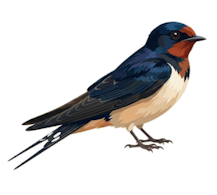
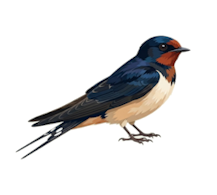
Rename 'Arten heute:' to 'Arten:' in index.html

Changed region(s): [[0.0276, 0.0923, 0.9677, 0.8923], [0.5806, 0.4615, 0.6083, 0.4923]]

diff --git a/templates/index.html b/templates/index.html
@@ -123,7 +123,7 @@
                     </div>
                     
                     <div id="radar-nodes" style="width: 100%; height: 100%; position: absolute; left: 0; top: 0;"></div>
-                    <div id="radar-unique-species" style="position: absolute; bottom: 10px; left: 10px; color: #4CAF50; font-family: 'Inter', sans-serif; font-size: 14px; background: rgba(20, 20, 20, 0.8); padding: 5px 12px; border-radius: 6px; border: 1px solid #1b5e20; z-index: 20; box-shadow: 0 2px 10px rgba(0,0,0,0.5); backdrop-filter: blur(4px);">Arten heute: 0</div>
+                    <div id="radar-unique-species" style="position: absolute; bottom: 10px; left: 10px; color: #4CAF50; font-family: 'Inter', sans-serif; font-size: 14px; background: rgba(20, 20, 20, 0.8); padding: 5px 12px; border-radius: 6px; border: 1px solid #1b5e20; z-index: 20; box-shadow: 0 2px 10px rgba(0,0,0,0.5); backdrop-filter: blur(4px);">Arten: 0</div>
                 </div>
             </div>
         </div>
@@ -294,7 +294,7 @@
                 .then(data => {
                     updateRadar(data.top, data.latest, data.latest_id);
                     if (data.unique_species_count !== undefined) {
-                        document.getElementById('radar-unique-species').textContent = `Arten heute: ${data.unique_species_count}`;
+                        document.getElementById('radar-unique-species').textContent = `Arten: ${data.unique_species_count}`;
                     }
                 });
                 